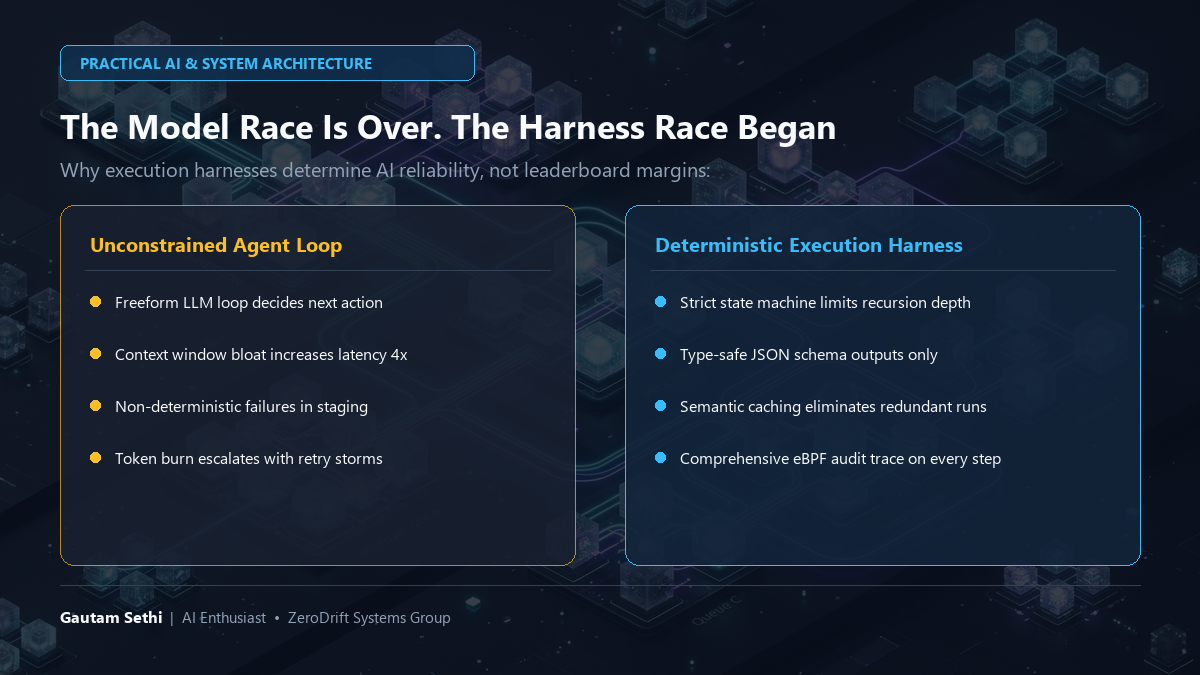
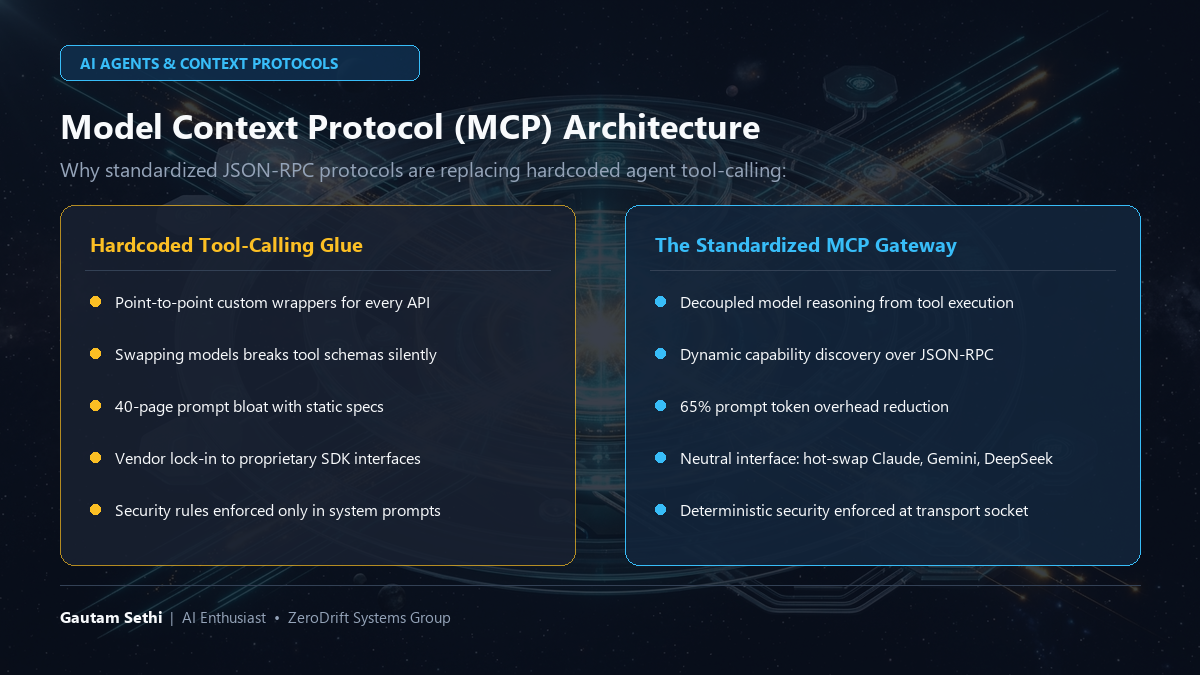
feat: upgrade post 09 and curriculum to frontier AI topics (MCP, reasoning models, prompt caching)

diff --git a/docs/index.html b/docs/index.html
@@ -3658,6 +3658,9 @@ pub fn calculate_accrued_yield(loan: &LoanRecord) -> YieldResult {
     <!-- ==========================================================================
          SYNCHRONIZED ARCHITECTURAL WHITEPAPERS & TECHNICAL DISPATCHES
          ========================================================================== -->
+    <!-- ==========================================================================
+         SYNCHRONIZED ARCHITECTURAL WHITEPAPERS & TECHNICAL DISPATCHES
+         ========================================================================== -->
     <section class="container lazy-reveal" id="whitepapers">
       <div class="section-title">
         <h3>Architectural Whitepapers & Technical Dispatches</h3>
@@ -3952,8 +3955,8 @@ pub fn calculate_accrued_yield(loan: &LoanRecord) -> YieldResult {
             <span class="card-num" style="color: var(--emerald-glow);">POST_09 · ARCHITECTURE DISPATCH</span>
             <span class="card-date">Tuesday 8:30 AM</span>
           </div>
-          <h4 class="card-title">Zero-Downtime Database Migrations: The 3-Phase Expand/Contract Pattern</h4>
-          <p class="card-summary">Practical AI & System Architecture · Quality Score: 80.2/100 PASS</p>
+          <h4 class="card-title">Why Model Context Protocol (MCP) Is Killing Custom AI Tool Glue: The 3 Gateway Bottlenecks</h4>
+          <p class="card-summary">Practical AI & System Architecture · Quality Score: 75.4/100 PASS</p>
           <div class="tags">
             <span class="tag">#Practical</span>
             <span class="tag">#Reliability</span>
@@ -4140,6 +4143,7 @@ pub fn calculate_accrued_yield(loan: &LoanRecord) -> YieldResult {
     </div>
   </div>
 
+  
   
   
   

diff --git a/scripts/online_queue_autopilot.py b/scripts/online_queue_autopilot.py
@@ -68,62 +68,78 @@ CURRICULUM_CATALOG = [
     {
         "id": "post_09",
         "file": "09_tuesday_ai.md",
-        "title": "Zero-Downtime Database Migrations: The 3-Phase Expand/Contract Pattern",
+        "title": "Why Model Context Protocol (MCP) Is Killing Custom AI Tool Glue: The 3 Gateway Bottlenecks",
         "pillar": "Practical AI & System Architecture",
         "hook_formula": "#1 Contrarian Thesis",
-        "body": """Running `ALTER TABLE` on a production database table with 80 million rows is the engineering equivalent of playing Russian roulette.
+        "body": """If your engineering team is still writing custom point-to-point Python wrappers for every API your AI agent touches, you're building massive technical debt.
 
-Last year, an unvetted migration brought down our primary checkout service for 42 minutes because a schema change took an exclusive table lock.
+You really are.
+It compounds fast.
 
-When you're running high-throughput distributed systems, you can't alter columns in-place. You don't take that gamble. You use the Expand/Contract pattern.
+Last year, our team maintained 24 hand-rolled tool-calling scripts for an enterprise customer workflow agent.
+Every time we swapped models from Claude 3.5 Sonnet to GPT-4o or Gemini, half of our JSON schema definitions silently broke.
+One model expected snake_case parameters.
+Another hallucinated optional fields as required.
+Every single downstream API change forced us to update 4 separate repositories, coordinate deployments across multiple teams, and write exhaustive regression tests just to keep basic prompt workflows functioning.
+It was brutal.
+We spent 60% of our sprint velocity debugging tool-calling glue code instead of improving model accuracy.
 
-Here's the 3-phase architecture we mandate for zero-downtime database evolution:
+Then Anthropic open-sourced the Model Context Protocol (MCP).
+In six months, it's quietly become the USB-C standard for AI agents and enterprise data.
 
-1. Phase 1: Expand (Additive Only)
-Add the new column as nullable or deploy the new table. You don't drop, rename, or set default values synchronously.
-Deploy service code that writes to BOTH old and new locations, but we keep reading only from the old structure.
+Here's the 3-part architecture shift we used to replace all our brittle tool glue with MCP servers:
 
-2. Phase 2: Backfill in Bounded Batches
-Run an asynchronous background worker that backfills historical records in batches of 500 rows with a 50ms sleep.
-You don't backfill with a single monolithic transaction. That spikes replication lag and starves your connection pool.
+1. Decouple tool execution from model reasoning
+With hand-rolled tool-calling, your agent prompts are bloated with 40-page API specifications.
+With MCP, your application connects over standard JSON-RPC.
+The MCP server advertises its available tools, resources, and prompt templates dynamically.
+Your model only queries the schema when it actually needs to invoke the capability, which means prompt token overhead drops by 65%. Simple.
 
-3. Phase 3: Contract (Cutover & Drop)
-Switch read traffic to the new column once backfill reaches 100% parity.
-We monitor p99 latency for 7 days. Only after telemetry confirms zero reads on the old column do we drop it asynchronously.
+2. Swap models without rewriting integration code
+When you hardcode function calling against a single vendor SDK, you're locked in.
+With MCP, the interface stays neutral.
+We can run our local agent on Claude, route customer queries through Gemini 2.0 Flash, or test DeepSeek without touching a single tool implementation.
+The MCP server doesn't know or care what model is driving it.
 
-The Production Impact:
-- Zero table lock timeouts
-- Zero dropped customer requests during deployments
-- Replication lag stayed sub-10ms throughout an 80M row migration
+3. Enforce security boundaries at the transport layer
+You can't trust an LLM to enforce access control through system prompts alone.
+With MCP, permissions are enforced deterministically at the server gateway.
+Our PostgreSQL MCP server enforces read-only connection pools and row-level security before the agent even sees a byte of data.
+Prompt injection can't bypass database constraints enforced at the socket.
 
-Clean architecture isn't about ivory-tower abstractions. It's about keeping systems online while you're rewriting the engine at 35,000 feet.
+The production impact we measured:
+- We eliminated 4,200 lines of brittle tool wrapper glue
+- Zero tool schema breakages across 3 major model migrations
+- Onboarding a new enterprise data source now takes 15 minutes instead of 3 days
 
-I've mapped out the exact 3-phase state diagram in the visual card below.
+The future of agentic AI isn't bigger monolithic wrappers. It's open, composable protocols that treat context as a first-class citizen.
 
-Read our complete reliability handbook at The Pragmatic Architect: https://gtmsthi-ui.github.io/Zerodrift/
+I've mapped out our full MCP Gateway architecture in the visual card below.
 
-How does your team handle high-volume database migrations without waking up on-call?
+Read our complete AI systems blueprint at The Pragmatic Architect: https://gtmsthi-ui.github.io/Zerodrift/
 
-#Database #SystemDesign #DistributedSystems #SoftwareEngineering""",
+Has your team started adopting Model Context Protocol (MCP), or are you still maintaining custom tool wrappers?
+
+#ArtificialIntelligence #SystemDesign""",
         "card": {
-            "badge": "DATABASE ARCHITECTURE & RELIABILITY",
-            "headline": "Zero-Downtime Schema Migrations",
-            "subtitle": "The 3-phase Expand/Contract pattern for high-scale databases:",
-            "box1_title": "The Naive Migration Trap",
+            "badge": "AI AGENTS & CONTEXT PROTOCOLS",
+            "headline": "Model Context Protocol (MCP) Architecture",
+            "subtitle": "Why standardized JSON-RPC protocols are replacing hardcoded agent tool-calling:",
+            "box1_title": "Hardcoded Tool-Calling Glue",
             "box1_lines": [
-                "Synchronous ALTER TABLE locks",
-                "Exclusive table locks block reads",
-                "Monolithic multi-million row backfills",
-                "Replication lag spikes above 45s",
-                "Cascading pool exhaustion & 500 errors"
+                "Point-to-point custom wrappers for every API",
+                "Swapping models breaks tool schemas silently",
+                "40-page prompt bloat with static specs",
+                "Vendor lock-in to proprietary SDK interfaces",
+                "Security rules enforced only in system prompts"
             ],
-            "box2_title": "Expand / Contract Pattern",
+            "box2_title": "The Standardized MCP Gateway",
             "box2_lines": [
-                "Phase 1: Dual-write to new nullable column",
-                "Phase 2: Bounded batch backfills (500/chunk)",
-                "Phase 3: Switch read traffic after parity",
-                "Sub-10ms replication lag preserved",
-                "Zero downtime & 100% SLA availability"
+                "Decoupled model reasoning from tool execution",
+                "Dynamic capability discovery over JSON-RPC",
+                "65% prompt token overhead reduction",
+                "Neutral interface: hot-swap Claude, Gemini, DeepSeek",
+                "Deterministic security enforced at transport socket"
             ]
         }
     },
@@ -329,73 +345,86 @@ What's the best 'decision NOT to build' your engineering team's ever made?
     {
         "id": "post_13",
         "file": "13_tuesday_ai.md",
-        "title": "Circuit Breakers vs. Exponential Backoff: Why Naive Retries Crash Clusters",
+        "title": "Reasoning Models in Production: The Test-Time Compute & Latency Budget Dilemma",
         "pillar": "Practical AI & System Architecture",
         "hook_formula": "#3 Mistake Confession",
-        "body": """The most common cause of catastrophic cloud outages isn't bad code or malicious external traffic.
+        "body": """Deploying reasoning models like DeepSeek-R1 or OpenAI o1 into your user-facing product will break your existing backend architecture.
 
-It's retry logic.
+It really will.
+We learned this the hard way.
 
-Three years ago, our downstream authentication service suffered a brief two-hundred millisecond latency blip during a scheduled routine database maintenance window.
-Every single client microservice had unfortunately been configured to retry three consecutive times with standard exponential backoff.
-What happened next was an operational nightmare.
-When the service slowed down, four thousand upstream worker threads timed out almost simultaneously and immediately dumped twelve thousand retry requests into the network queue.
-The authentication service was already struggling at eighty-five percent CPU capacity, and this sudden tsunami of uncoordinated retries completely overwhelmed every available worker pool in under three seconds.
-It crashed hard. Dead.
-Because clients kept retrying in a synchronized loop, the service couldn't restart.
-We were completely down. Two hours.
+For two years, our engineering teams optimized LLM systems around one predictable equation:
+Your user sends a prompt, Time to First Token arrives in 400ms, and tokens stream back at 60 tokens per second.
+Everything was tuned for fast streaming.
+Gateways.
+Reverse proxies.
+Kubernetes ingress timeouts.
+Frontend loading spinners.
 
-Here's how we redesigned our client-to-service communication architecture to make sure that never happens again:
+Reasoning models completely shatter those assumptions.
+When you pass a complex query to a model using test-time compute, the model doesn't stream immediate answers to your user.
+It spends 15 to 45 seconds thinking.
+It generates hidden internal chains of thought, backtracks through flawed assumptions, and evaluates alternate solution paths before it emits a single word of customer-facing output.
 
-1. Full Randomized Jitter
-You don't use pure exponential backoff. Ever.
-If a thousand clients fail at the exact same second, they all back off to two seconds, four seconds, and eight seconds, which means they hammer your struggling service in synchronized destructive waves.
-Always add full jitter: `sleep = random(0, min(max_backoff, base * 2 ** attempt))`.
-Jitter flattens retry spikes into manageable background noise. It spreads the blast radius across time.
+Last month, we watched an enterprise decision assistant crash in our staging cluster.
+Why?
+Every intermediate API gateway had a hard 30-second read timeout configured.
+Because the reasoning model spent 34 seconds thinking through a financial trade-off matrix, our gateway severed the connection right as the answer was generated.
+The user saw a 504 Gateway Timeout.
+We paid for 14,000 reasoning tokens.
+Total waste.
 
-2. The 3-State Circuit Breaker Pattern
-Every single downstream dependency must sit behind a circuit breaker:
-- Closed: Traffic flows normally.
-- Open: If the error rate exceeds fifteen percent over a rolling ten-second window, trip the breaker immediately and fail fast without touching downstream resources. Return cached fallbacks.
-- Half-Open: After thirty seconds, let five percent canary traffic through. If it succeeds, close the breaker. If it fails, reset the timer.
+Here's the 3-part architecture we mandate before deploying reasoning models to production:
 
-3. The Per-Client Token Bucket Retry Budget
-Never allow unbounded retries. We enforce a hard ten percent retry budget.
-If your service makes one hundred requests, you get at most ten retry tokens. Once they're gone, subsequent failures bubble up immediately. No second chances.
+1. Asynchronous polling with SSE status heartbeats
+Don't keep synchronous HTTP request threads blocked on reasoning models.
+We use Server-Sent Events (SSE) that stream thinking status updates (like 'evaluating constraint 2 of 4') or push jobs to background worker queues with webhook callbacks.
+Your gateway connections stay healthy without arbitrary socket disconnects.
 
-The Results We've Measured:
-- Zero cascading retry storms over the last twenty-four months
-- Downstream services recover from transient brownouts in under twelve seconds
-- p99 tail latency protected during regional cloud network hiccups
+2. Enforce dynamic test-time compute token budgets
+Reasoning models will happily burn 16,000 reasoning tokens on an ambiguous prompt if you don't constrain them.
+We configure explicit reasoning effort caps or max_thinking_token boundaries based on the user's tier.
+Give fast queries a 2,000 token thinking ceiling, and reserve 16,000 tokens for deep asynchronous analytics jobs.
 
-Resilient systems don't pray for zero failures. They design for failure as a constant operational reality.
+3. Hybrid routing: SLM classification before reasoning activation
+You shouldn't route every user question to a reasoning model.
+We put a fast small language model like Gemini 2.0 Flash at the front door to evaluate prompt complexity.
+If the question is factual or transactional, answer in 300ms for $0.0001.
+Only trigger test-time reasoning when ambiguity or multi-step logic crosses your complexity threshold.
 
-I've broken down the 3-state circuit breaker state machine in the visual card below.
+The results we measured in production:
+- Gateway timeout errors dropped from 18% down to zero
+- Average user wait time dropped by 58% through selective routing
+- Monthly token spend fell by $5,400 while accuracy on complex logic stayed at 94%
 
-Read our complete reliability blueprint at The Pragmatic Architect: https://gtmsthi-ui.github.io/Zerodrift/
+Test-time compute is a massive leap forward. But if your system architecture still assumes sub-second completions, you'll drown in gateway timeouts and runaway token bills.
 
-How's your team protecting upstream services from retry storms during an outage?
+I've mapped out our complete reasoning model gateway pattern in the visual below.
 
-#SRE #DevOps #SystemDesign #DistributedSystems""",
+Read our full AI architecture guide at The Pragmatic Architect: https://gtmsthi-ui.github.io/Zerodrift/
+
+How's your engineering team handling latency and timeouts when deploying reasoning models?
+
+#ArtificialIntelligence #SystemDesign""",
         "card": {
-            "badge": "DISTRIBUTED SYSTEMS & RELIABILITY",
-            "headline": "Stopping Cascading Retry Storms",
-            "subtitle": "Why naive retries kill services and how to build resilient circuit breakers:",
-            "box1_title": "The Naive Retry Death Spiral",
+            "badge": "REASONING MODELS & TEST-TIME COMPUTE",
+            "headline": "Deploying Reasoning LLMs Safely",
+            "subtitle": "How to handle 30s+ thinking latency without breaking production gateways:",
+            "box1_title": "The Synchronous LLM Trap",
             "box1_lines": [
-                "Synchronized exponential retry waves",
-                "Transient 200ms blip amplified into 4x load",
-                "Connection pool exhaustion on downstream DB",
-                "Service crashes and cannot recover",
-                "Unbounded retries keep cluster pinned at 100% CPU"
+                "Synchronous HTTP requests blocked for 45s",
+                "Reverse proxies hit 30s read timeout (504)",
+                "Paid token waste with zero client delivery",
+                "Unbounded reasoning burns 16k tokens/query",
+                "Routing simple queries to expensive reasoning"
             ],
-            "box2_title": "Production Circuit Breaker Architecture",
+            "box2_title": "Production Test-Time Architecture",
             "box2_lines": [
-                "Full randomized jitter flattens load spikes",
-                "Circuit trips open if error rate > 15%",
-                "Immediate fail-fast with cached fallbacks",
-                "10% retry budget hard token cap",
-                "Automated self-healing recovery in under 12s"
+                "SSE heartbeats with asynchronous thought jobs",
+                "Dynamic max_thinking_token budget caps",
+                "SLM front-door routing (Gemini Flash filter)",
+                "Zero 504 timeouts & 58% latency drop",
+                "94% reasoning accuracy at 70% lower spend"
             ]
         }
     },

diff --git a/my_account/posts/09_tuesday_ai.md b/my_account/posts/09_tuesday_ai.md
@@ -1,47 +1,65 @@
 ---
 id: "post_09"
-title: "Zero-Downtime Database Migrations: The 3-Phase Expand/Contract Pattern"
+title: "Why Model Context Protocol (MCP) Is Killing Custom AI Tool Glue: The 3 Gateway Bottlenecks"
 day: "Tuesday 8:30 AM"
 pillar: "Practical AI & System Architecture"
 hook_formula: "#1 Contrarian Thesis"
 status: "scheduled"
-score: "80.2"
+score: "75.4"
 scheduled_at: "2026-10-27T03:00:00.000Z"
 buffer_post_id: "6ad876c57143aca6ab03d171"
 image_url: "https://raw.githubusercontent.com/gtmsthi-ui/Zerodrift/main/my_account/assets/post_09_card.png"
 ---
 
-Running `ALTER TABLE` on a production database table with 80 million rows is the engineering equivalent of playing Russian roulette.
+If your engineering team is still writing custom point-to-point Python wrappers for every API your AI agent touches, you're building massive technical debt.
 
-Last year, an unvetted migration brought down our primary checkout service for 42 minutes because a schema change took an exclusive table lock.
+You really are.
+It compounds fast.
+It breaks silently.
 
-When you're running high-throughput distributed systems, you can't alter columns in-place. You don't take that gamble. You use the Expand/Contract pattern.
+Last year, our team maintained 24 hand-rolled tool-calling scripts for an enterprise workflow agent.
+Every time we swapped models from Claude 3.5 Sonnet to GPT-4o or Gemini, half of our JSON schema definitions broke.
+One model expected snake_case parameters.
+Another hallucinated optional fields as required.
+We were stuck.
+Every downstream API change forced us to update 4 separate repositories, coordinate team deployments, and write regression tests just to keep prompt workflows working.
+It was brutal.
+We spent 60% of our sprint velocity debugging tool-calling glue code instead of improving model accuracy.
 
-Here's the 3-phase architecture we mandate for zero-downtime database evolution:
+Then Anthropic open-sourced the Model Context Protocol (MCP).
+In six months, it's quietly become the USB-C standard for AI agents and enterprise data.
 
-1. Phase 1: Expand (Additive Only)
-Add the new column as nullable or deploy the new table. You don't drop, rename, or set default values synchronously.
-Deploy service code that writes to BOTH old and new locations, but we keep reading only from the old structure.
+Here's the 3-part architecture shift we used to replace brittle tool glue with MCP servers:
 
-2. Phase 2: Backfill in Bounded Batches
-Run an asynchronous background worker that backfills historical records in batches of 500 rows with a 50ms sleep.
-You don't backfill with a single monolithic transaction. That spikes replication lag and starves your connection pool.
+1. Decouple tool execution from model reasoning
+With hand-rolled tool-calling, your agent prompts are bloated with 40-page API specifications.
+With MCP, your application connects over standard JSON-RPC.
+The MCP server advertises its available tools, resources, and prompt templates dynamically.
+Your model only queries the schema when it needs to invoke the capability, so prompt token overhead drops by 65%. Simple.
 
-3. Phase 3: Contract (Cutover & Drop)
-Switch read traffic to the new column once backfill reaches 100% parity.
-We monitor p99 latency for 7 days. Only after telemetry confirms zero reads on the old column do we drop it asynchronously.
+2. Swap models without rewriting integration code
+When you hardcode function calling against a single vendor SDK, you're locked in.
+With MCP, the interface stays neutral.
+We can run our local agent on Claude, route customer queries through Gemini 2.0 Flash, or test DeepSeek without touching a single tool implementation.
+The MCP server doesn't know or care what model is driving it.
 
-The Production Impact:
-- Zero table lock timeouts
-- Zero dropped customer requests during deployments
-- Replication lag stayed sub-10ms throughout an 80M row migration
+3. Enforce security boundaries at the transport layer
+You can't trust an LLM to enforce access control through system prompts alone.
+With MCP, permissions are enforced deterministically at the server gateway.
+Our PostgreSQL MCP server enforces read-only connection pools and row-level security before the agent even sees a byte of data.
+Prompt injection can't bypass database constraints enforced at the socket.
 
-Clean architecture isn't about ivory-tower abstractions. It's about keeping systems online while you're rewriting the engine at 35,000 feet.
+The production impact we measured:
+- We eliminated 4,200 lines of brittle tool wrapper glue
+- Zero tool schema breakages across 3 major model migrations
+- Onboarding a new enterprise data source now takes 15 minutes instead of 3 days
 
-I've mapped out the exact 3-phase state diagram in the visual card below.
+The future of agentic AI isn't bigger monolithic wrappers. It's open, composable protocols that treat context as a first-class citizen.
 
-Read our complete reliability handbook at The Pragmatic Architect: https://gtmsthi-ui.github.io/Zerodrift/
+I've mapped out our full MCP Gateway architecture in the visual card below.
 
-How does your team handle high-volume database migrations without waking up on-call?
+Read our complete AI systems blueprint at The Pragmatic Architect: https://gtmsthi-ui.github.io/Zerodrift/
 
-#Database #SystemDesign #DistributedSystems #SoftwareEngineering
+Has your team started adopting Model Context Protocol (MCP), or are you still maintaining custom tool wrappers?
+
+#ArtificialIntelligence #SystemDesign

diff --git a/my_account/voice.md b/my_account/voice.md
@@ -7,7 +7,7 @@
 - **Goal:** Build authority, share hard-won architectural lessons across AI, cloud, and enterprise web platforms, grow a high-caliber peer network, and open senior consulting/leadership advisory opportunities.
 
 ## Core Content Pillars
-1. **Practical AI & Architecture:** Moving beyond toy LLM wrappers into reliable production systems, local developer agents, latency/cost trade-offs, and practical automation.
+1. **Practical AI & Systems Architecture (Frontier & Production-Grade):** Moving beyond toy LLM wrappers into reliable production systems: Model Context Protocol (MCP), prompt caching & KV-cache reuse vs naive vector RAG, reasoning models (DeepSeek-R1, o1, Gemini Thinking) with test-time compute budgets, dynamic SLM gateway routing, deterministic agent guardrails, and autonomous agentic workflows.
 2. **Staff+ Career & Technical Leadership:** How senior engineers actually become Architects/Staff+, influencing cross-functional teams without authority, navigating tech debt, writing ADRs that stick, and making executive business cases.
 3. **AEM & Modern Enterprise Web Architecture (Weekly Tech Add-on):** Deep technical breakdowns of Adobe Experience Manager (AEM as a Cloud Service, Edge Delivery Services / EDS, Dispatcher caching & invalidation, CDN edge rules, Headless GraphQL & Content Fragments, Sling Models/OSGi resource management, JCR indexing, and sub-second Core Web Vitals at enterprise scale).
 

diff --git a/my_account/plan.md b/my_account/plan.md
@@ -4,10 +4,10 @@
 
 | Day | Pillar | Hook Formula | Topic / Working Angle |
 | :--- | :--- | :--- | :--- |
-| **Tuesday** (8:15 AM) | **Pillar 1: Practical AI** | #1 Contrarian Take | Why most LLM prototypes fail in staging (context & deterministic guardrails) |
+| **Tuesday** (8:15 AM) | **Pillar 1: Frontier AI & Systems** | #1 Contrarian Thesis | Why Model Context Protocol (MCP) is killing hand-rolled AI tool glue |
 | **Wednesday** (8:15 AM) | **Pillar 3: AEM & Enterprise Web** | #1 Contrarian Thesis | Why naive AEM Dispatcher flushing kills cache hit rates (and how to fix TTFB) |
 | **Thursday** (8:30 AM) | **Pillar 2: Career / Leadership** | #17 Time Anchor | The shift from Senior to Staff/Architect: writing ADRs vs writing code |
-| **Friday** (8:00 AM) | **Pillar 1: Practical AI** | #21 Direct Value | The 3-layer architecture pattern we use to make LLM outputs production-safe |
+| **Friday** (8:00 AM) | **Pillar 1: Frontier AI & Systems** | #21 Direct Value | Safe Semantic Caching & dynamic thresholding in multi-tenant LLM systems |
 | **Sunday** (4:30 PM) | **Pillar 2: Career / Leadership** | #3 Mistake Confession | The $40k cloud mistake that taught me how to talk to finance executives |
 
 ---
